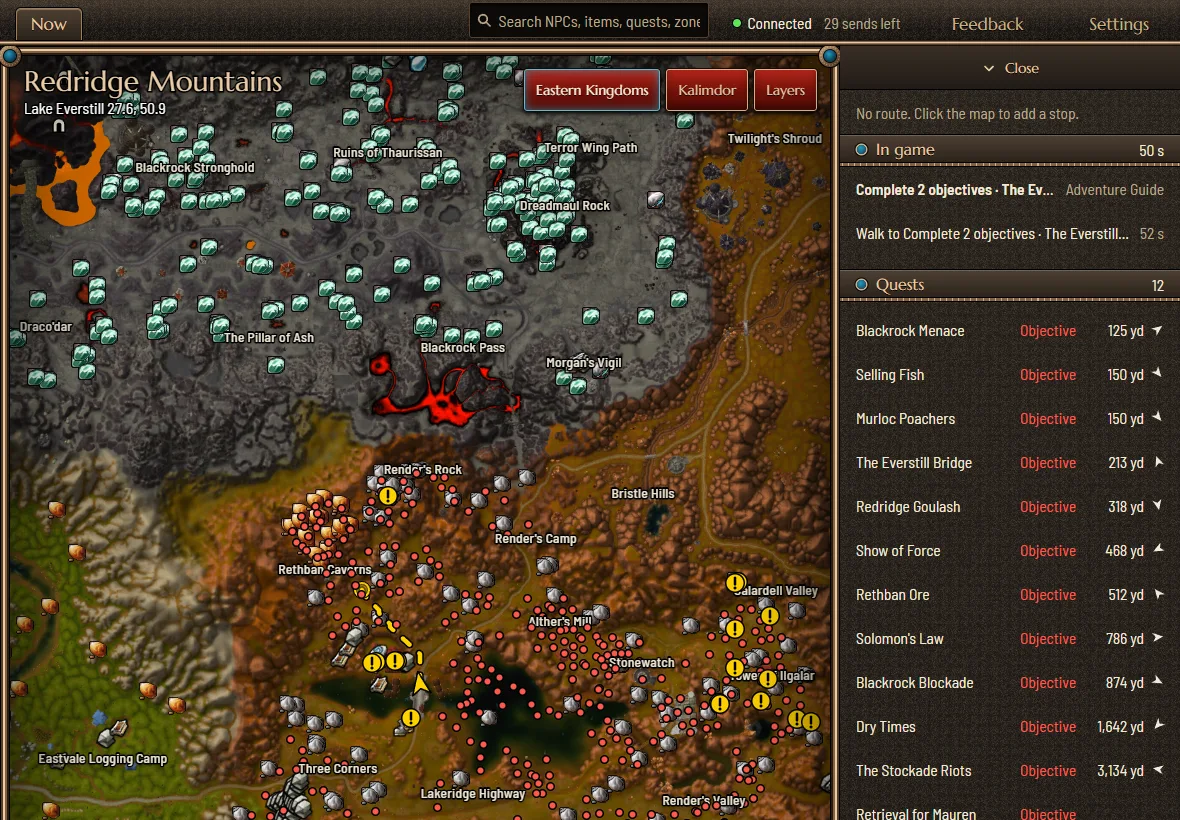
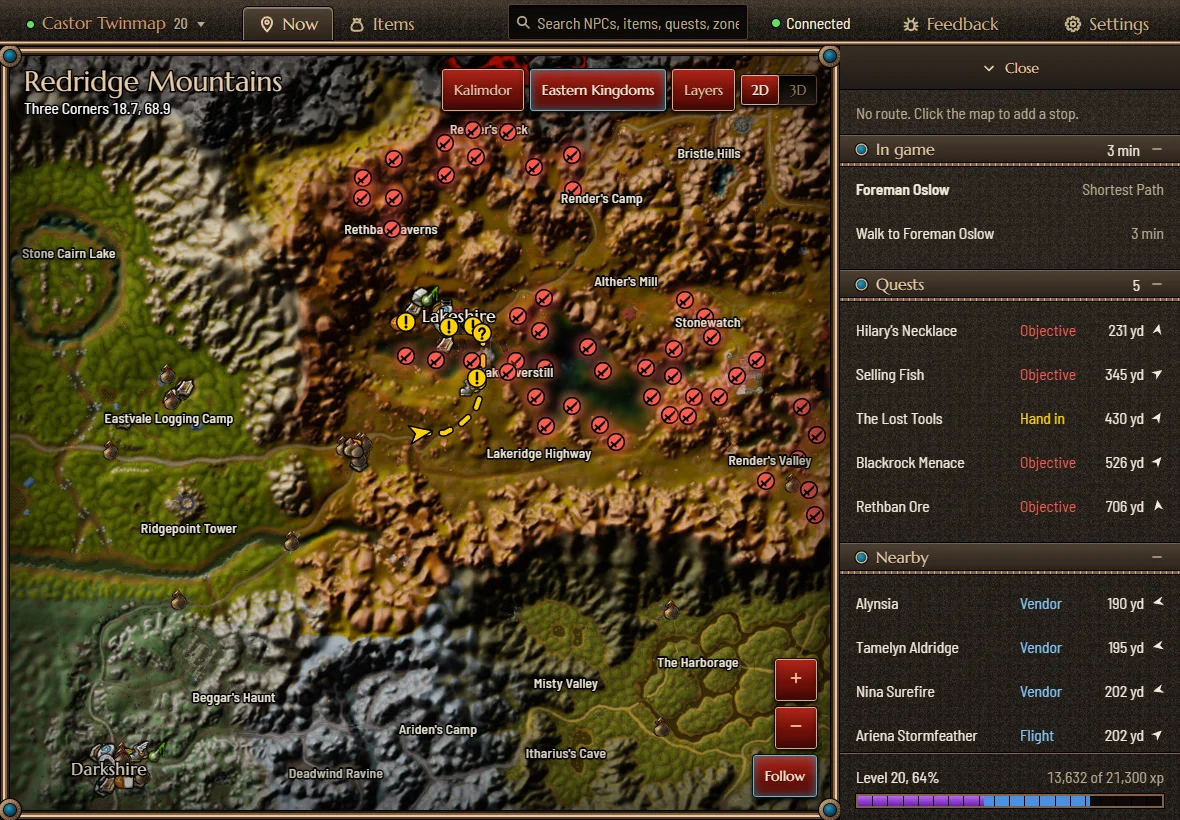
The site shows the app as it is now, with films
The pictures of the site were from before the icons of the top row, and three things had only a sentence each.

- 2D or 3D and Even inside dungeons have a film in their frame where they had a picture: the switch to 3D down to Ironforge, and a group running through The Temple of Atal'Hakkar.
- Two new sections, each with its film: Search an item, find who sells it, and Every character, with the game closed. Their sentences leave the section of the layers.
- New pictures for the first screen, the laptop, the tablet, the phone (in 3D) and the layers.
- The films are muted, play while they are in view, and are not in the repository: the page takes them from twinmap.app/media. A visitor who asked the system for less motion keeps the still pictures.
- The first picture is a staged scene like the others, and its caption says so.

diff --git a/site/index.html b/site/index.html
@@ -39,11 +39,11 @@
           <div class="frame">
             <picture>
               <source media="(max-width: 560px)" srcset="assets/map-narrow.webp" width="520" height="460" />
-              <img src="assets/map.webp" width="900" height="610" alt="Twinmap showing Lakeshire in Redridge Mountains: the player's yellow arrow on the bridge, the dotted line of a journey leading to it, quests, ore and objectives around the lake" />
+              <img src="assets/map.webp" width="900" height="610" alt="Twinmap showing Redridge Mountains: the player's yellow arrow at Three Corners, the dotted line of a journey over the bridge of Lakeshire, quests to take in the town and objectives around the lake" />
             </picture>
             <i class="stud tl"></i><i class="stud tr"></i><i class="stud bl"></i><i class="stud br"></i>
           </div>
-          <figcaption>Lakeshire, on the bridge. The yellow arrow is the player, from a live session.</figcaption>
+          <figcaption>Redridge Mountains, on the way to Lakeshire. The yellow arrow is the player. A staged scene, replayed in the app.</figcaption>
         </figure>
 
         <ol class="steps">
@@ -73,13 +73,12 @@
         </div>
         <figure class="map">
           <div class="frame">
-            <picture>
-              <source media="(max-width: 560px)" srcset="assets/3d-narrow.webp" width="520" height="400" />
-              <img src="assets/3d.webp" width="900" height="722" loading="lazy" alt="Twinmap in 3D: the snowy mountains of Dun Morogh in relief, the names of its places on the ground, the dotted line of a journey climbing from Kharanos to the Gates of Ironforge, and the city open inside its mountain, with the coast fading in the distance" />
-            </picture>
+            <video muted loop playsinline preload="none" poster="assets/3d-poster.webp" width="960" height="600" aria-label="Twinmap goes from the flat map of Dun Morogh to 3D with one click: the view comes down over Kharanos and turns to Ironforge, open inside its mountain">
+              <source src="https://twinmap.app/media/3d.mp4" type="video/mp4" />
+            </video>
             <i class="stud tl"></i><i class="stud tr"></i><i class="stud bl"></i><i class="stud br"></i>
           </div>
-          <figcaption>Dun Morogh in 3D, on the way to Ironforge, open inside its mountain. A staged scene, replayed in the app.</figcaption>
+          <figcaption>Dun Morogh, from 2D to 3D, with Ironforge open inside its mountain. A staged scene, replayed in the app.</figcaption>
         </figure>
       </section>
 
@@ -91,13 +90,46 @@
         </div>
         <figure class="map">
           <div class="frame">
-            <picture>
-              <source media="(max-width: 560px)" srcset="assets/dungeon-narrow.webp" width="520" height="400" />
-              <img src="assets/dungeon.webp" width="1236" height="646" loading="lazy" alt="Twinmap inside The Temple of Atal'Hakkar: the rooms of the dungeon, the bosses as skulls with their names, three of them crossed out as killed, the yellow arrow and four companions, each in a colour of their own" />
-            </picture>
+            <video muted loop playsinline preload="none" poster="assets/dungeon-poster.webp" width="960" height="600" aria-label="Twinmap inside The Temple of Atal'Hakkar: the yellow arrow and four companions, each in a colour of their own, run up a passage away from two bosses crossed out as killed">
+              <source src="https://twinmap.app/media/dungeon.mp4" type="video/mp4" />
+            </video>
             <i class="stud tl"></i><i class="stud tr"></i><i class="stud bl"></i><i class="stud br"></i>
           </div>
-          <figcaption>The Temple of Atal'Hakkar: the arrow, your group, the bosses killed and those still ahead. A staged scene, replayed in the app.</figcaption>
+          <figcaption>The Temple of Atal'Hakkar: the arrow and your group on the move, the bosses killed behind them. A staged scene, replayed in the app.</figcaption>
+        </figure>
+      </section>
+
+      <section class="proof turned">
+        <div class="words">
+          <h2>Search an item, find who sells it</h2>
+          <p>Type the name of an item, an NPC, a quest or a dungeon. For an item the search lists who sells it, the nearest first, with the distance to each.</p>
+          <p>Choose one and the map goes there, with everything that vendor sells, the prices, and how many you already hold in your bags and in the bank. A trainer shows what you can learn now and what it costs.</p>
+        </div>
+        <figure class="map">
+          <div class="frame">
+            <video muted loop playsinline preload="none" poster="assets/search-poster.webp" width="960" height="600" aria-label="In Twinmap the word Refresh is typed in the search: it lists the vendors of Refreshing Spring Water with their distance, the first is chosen, the map goes to her and her wares open with their prices">
+              <source src="https://twinmap.app/media/search.mp4" type="video/mp4" />
+            </video>
+            <i class="stud tl"></i><i class="stud tr"></i><i class="stud bl"></i><i class="stud br"></i>
+          </div>
+          <figcaption>Looking for water in Lakeshire. A staged scene, replayed in the app.</figcaption>
+        </figure>
+      </section>
+
+      <section class="proof">
+        <div class="words">
+          <h2>Every character, with the game closed</h2>
+          <p>Twinmap keeps a sheet of each character you play: what is worn, bags, bank, money and statistics, with a picture taken from the game. Click the name at the top to look at another one, even with the game closed.</p>
+          <p>A filter leaves lit what you are looking for, and tells you which other character holds it.</p>
+        </div>
+        <figure class="map">
+          <div class="frame">
+            <video muted loop playsinline preload="none" poster="assets/items-poster.webp" width="960" height="600" aria-label="The Items page of Twinmap: what a character wears round its picture, its bags and bank as grids; another character is chosen by its name, then a filter dims everything but linen">
+              <source src="https://twinmap.app/media/items.mp4" type="video/mp4" />
+            </video>
+            <i class="stud tl"></i><i class="stud tr"></i><i class="stud bl"></i><i class="stud br"></i>
+          </div>
+          <figcaption>Two characters of one player. A staged scene, replayed in the app.</figcaption>
         </figure>
       </section>
 
@@ -112,25 +144,25 @@
             <div class="deck"></div>
           </div>
           <div class="tablet"><img src="assets/tablet.webp" width="1180" height="820" loading="lazy" alt="Twinmap on a tablet" /></div>
-          <div class="phone"><img src="assets/phone.webp" width="780" height="1688" loading="lazy" alt="Twinmap on a phone, the map filling the screen" /></div>
+          <div class="phone"><img src="assets/phone.webp" width="780" height="1688" loading="lazy" alt="Twinmap on a phone, in 3D, the map filling the screen" /></div>
         </div>
       </section>
 
       <section class="proof turned">
         <div class="words">
           <h2>Show only what you need</h2>
-          <p>Your quests, your party, flight masters, inns, trainers, repair, banks, ore, herbs, dungeons, caves and mines, the relief of the ground: each one a layer you turn on or off. Search finds any NPC, item, quest or dungeon, and your own pins, with the distance on foot. Items shows the bags, the bank and the gear of every character you play, also with the game closed, and a vendor's label tells what it sells and at what price.</p>
+          <p>Your quests, your party, flight masters, inns, trainers, repair, banks, ore, herbs, dungeons, caves and mines, the relief of the ground: each one a layer you turn on or off.</p>
           <p>And it goes both ways: mark a point or build a route on Twinmap, and it appears in the game.</p>
         </div>
         <figure class="map">
           <div class="frame">
             <picture>
               <source media="(max-width: 900px)" srcset="assets/layers-narrow.webp" width="568" height="968" />
-              <img src="assets/layers.webp" width="1576" height="988" loading="lazy" alt="Twinmap with the Layers menu open: arrow, route, pins, quests, services, resources and world, each with its checkbox" />
+              <img src="assets/layers.webp" width="1600" height="900" loading="lazy" alt="Twinmap with the Layers menu open on the layers of the world, Relief and Caves among them, and the galleries of Rethban Caverns showing through the ground beside it" />
             </picture>
             <i class="stud tl"></i><i class="stud tr"></i><i class="stud bl"></i><i class="stud br"></i>
           </div>
-          <figcaption>The Layers menu, as one player has it set.</figcaption>
+          <figcaption>The Layers menu, and the galleries of a cave seen from outside. A staged scene, replayed in the app.</figcaption>
         </figure>
       </section>
 
@@ -181,5 +213,12 @@
       <p>Twinmap is a fan project. It is not affiliated with or endorsed by Blizzard Entertainment, and Blizzard has not authorized it: you use it at your own risk. World of Warcraft is a trademark of Blizzard Entertainment, Inc.</p>
       <p>Free software under the GNU General Public License, version 3. It comes with no warranty.</p>
     </footer>
+    <script>
+      // The films play while they are in view. A visitor who asked the system for less motion keeps the still pictures.
+      if (matchMedia('(prefers-reduced-motion: no-preference)').matches) {
+        const seen = new IntersectionObserver((all) => { for (const one of all) one.isIntersecting ? one.target.play().catch(() => {}) : one.target.pause() }, { threshold: 0.35 })
+        for (const film of document.querySelectorAll('video')) seen.observe(film)
+      }
+    </script>
   </body>
 </html>

diff --git a/site/assets/site.css b/site/assets/site.css
@@ -287,6 +287,11 @@ h1 {
   position: relative;
   background: #000;
 }
+.frame video {
+  display: block;
+  width: 100%;
+  height: auto;
+}
 .frame img {
   width: 100%;
 }
